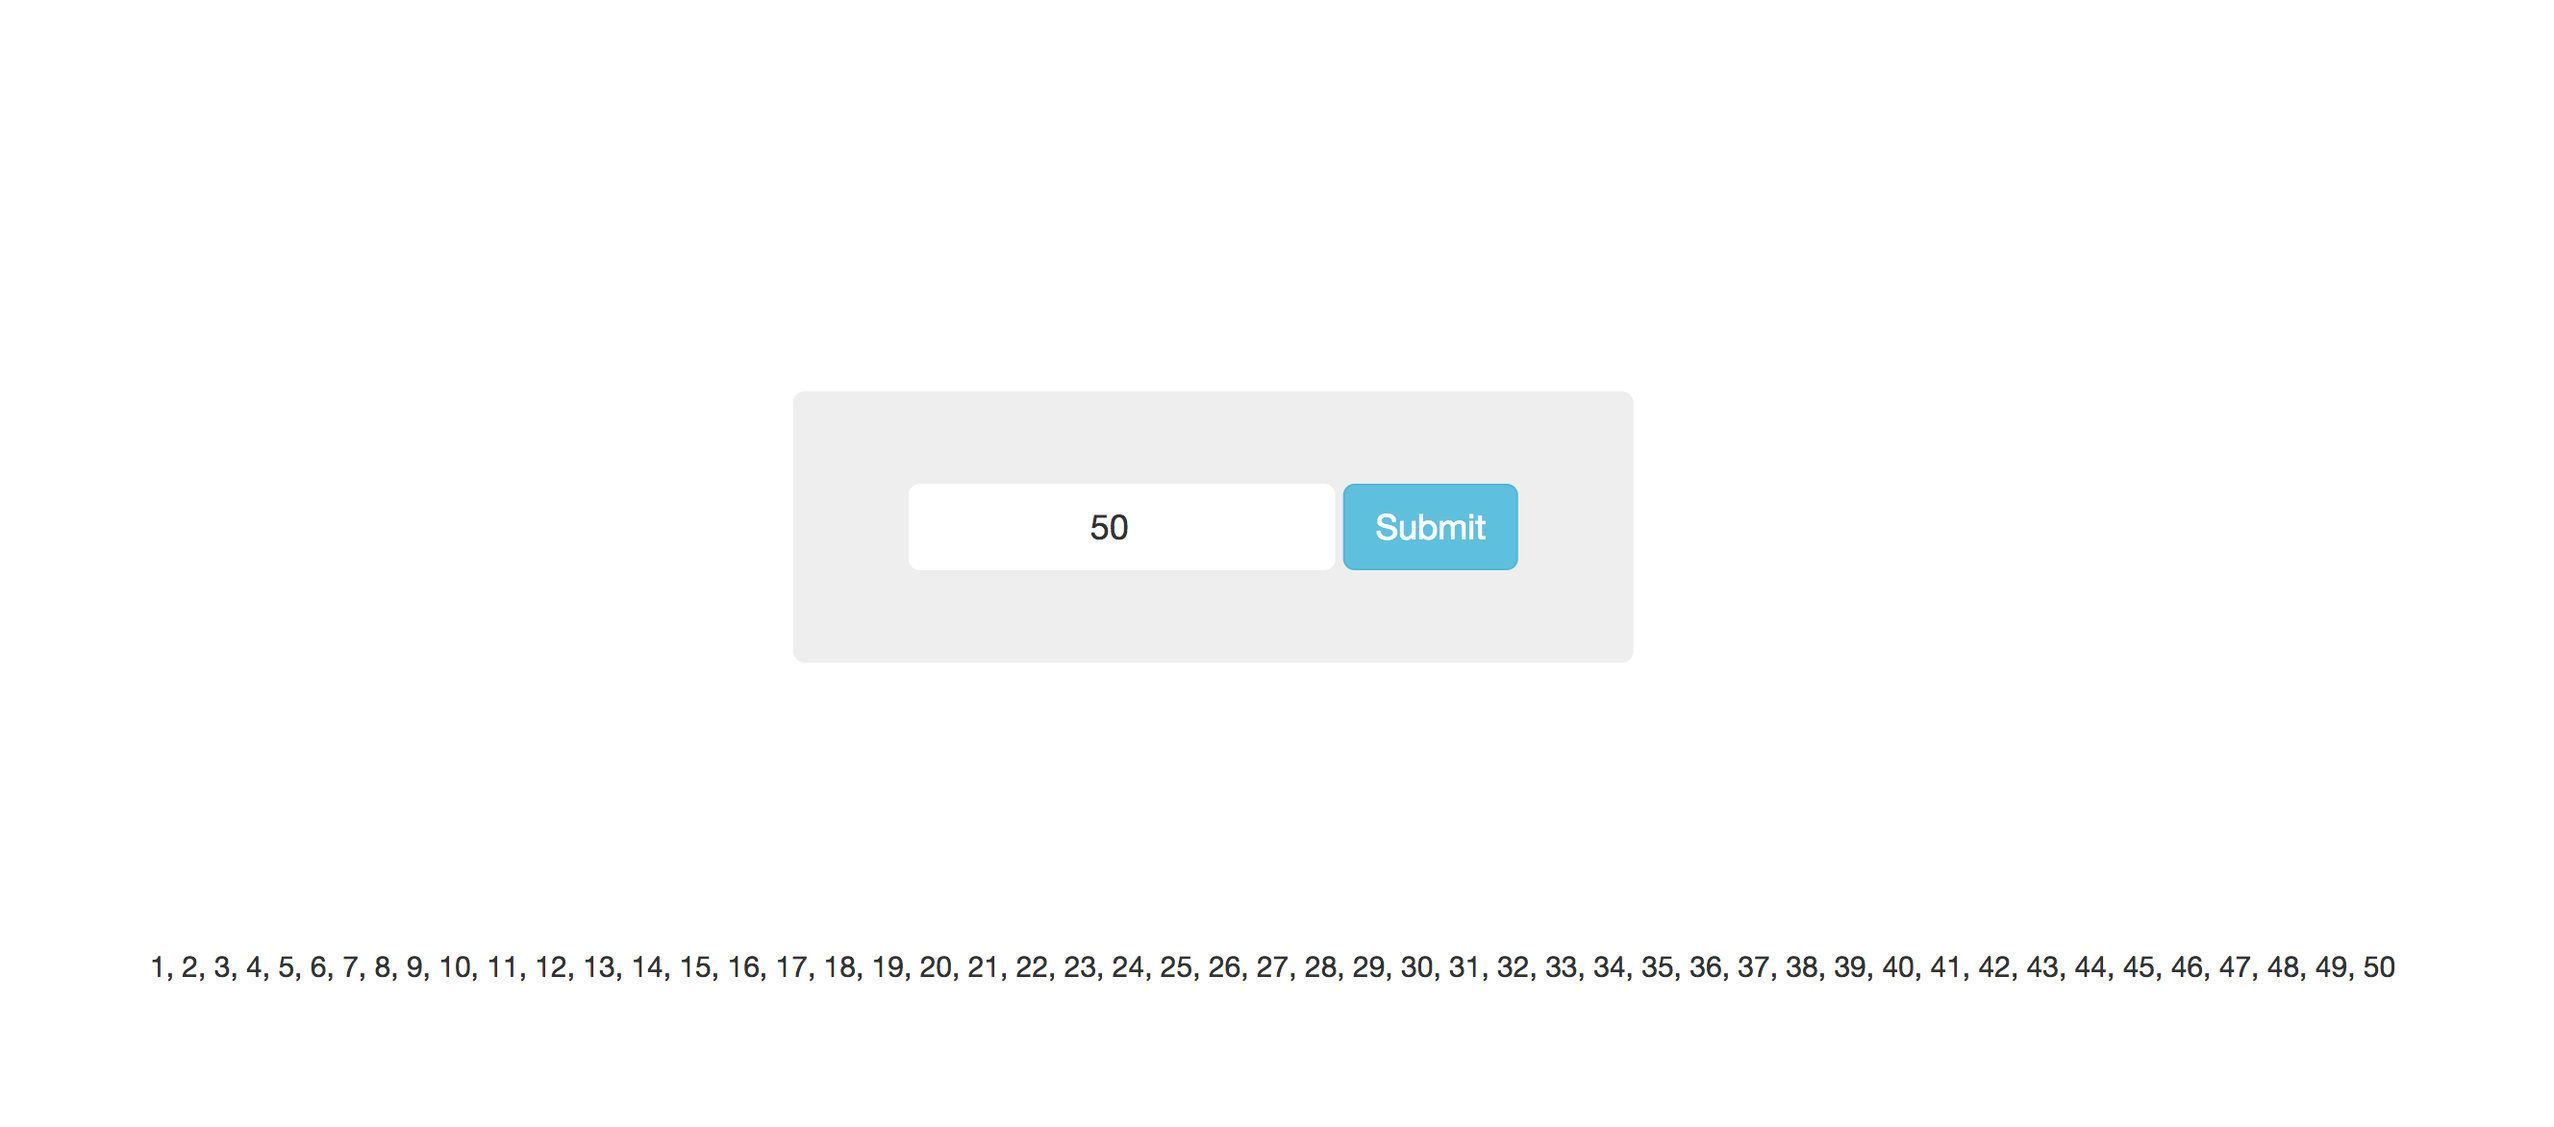
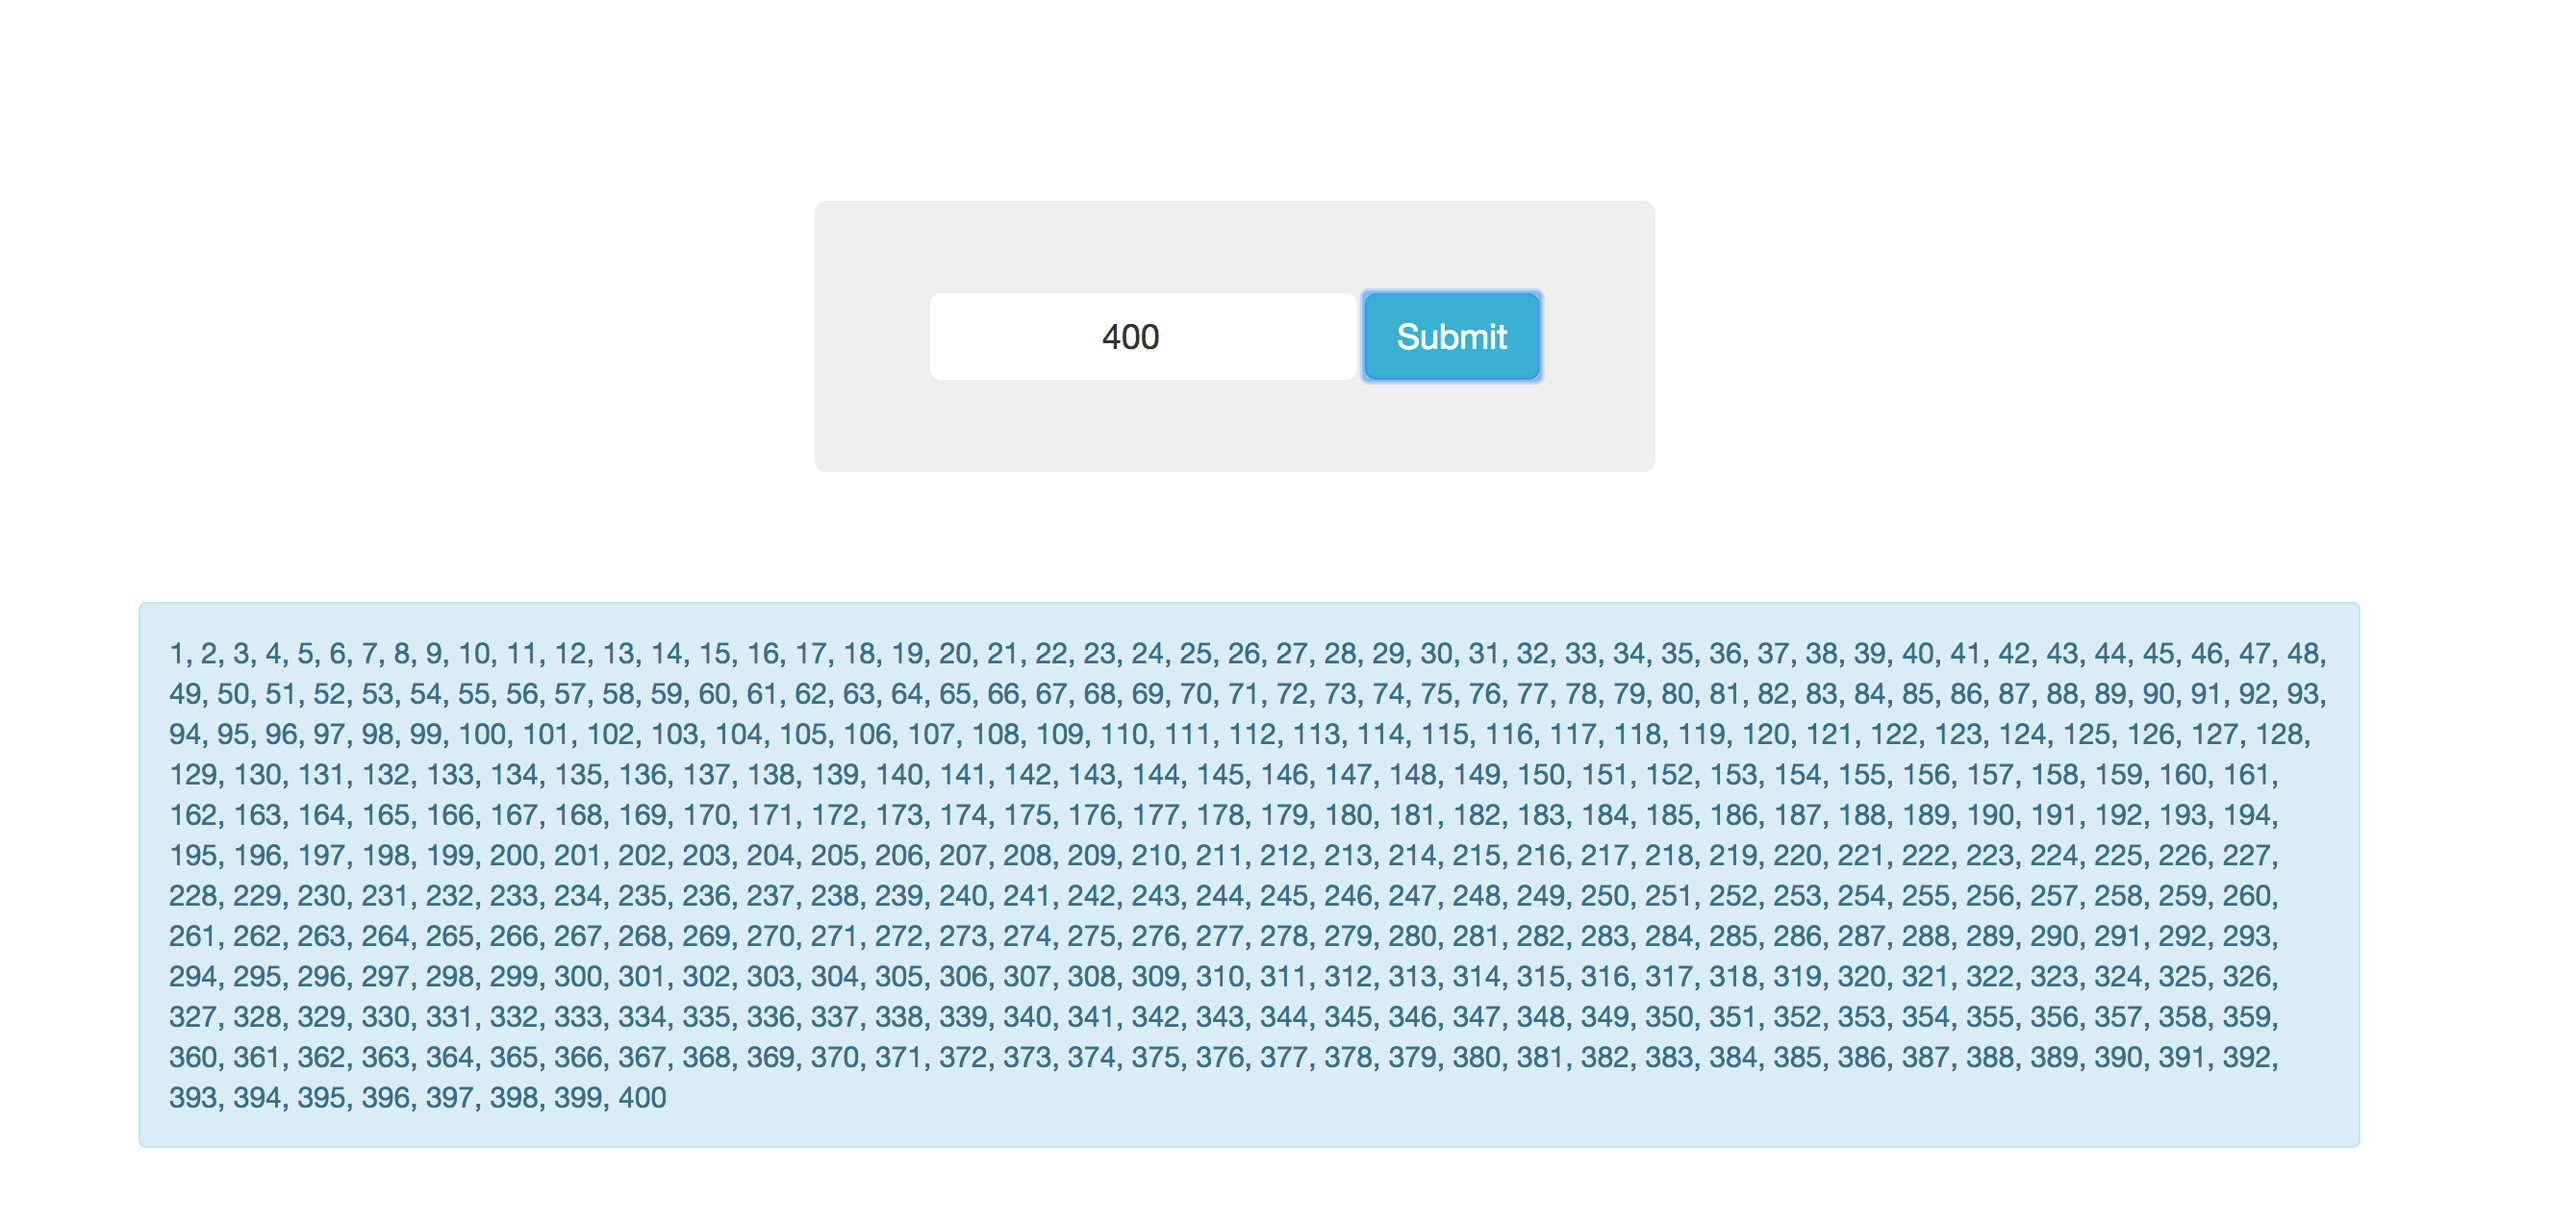
changes styles to display answer

diff --git a/index.html b/index.html
@@ -5,7 +5,9 @@
 
 <script>
   function setResponse(data) {
-      document.getElementById("response").innerHTML = data
+      response = document.getElementById("response")
+      response.innerHTML = data
+      response.classList.remove("-disabled");
   }
 
   function displayResponse() {
@@ -38,16 +40,20 @@
 
   .jumbotron {
     position: absolute;
-    top: 50%;
+    top: 30%;
     left:50%;
     transform: translate(-50%,-50%);
   }
 
   .response {
     position: absolute;
-    top: 80%;
+    top: 50%;
     font-size: 15px;
     overflow: scroll;
+  }
+
+  .-disabled {
+    display: none;
   }
 
 </style>
@@ -58,6 +64,6 @@
       <input class="btn btn-lg" name="number" id="number" type="number" placeholder="Enter a number" required>
       <button class="btn btn-info btn-lg" onclick="displayResponse()">Submit</button>
     </div>
-    <div id="response" class="btn btn-lg response"></div>
+    <div id="response" class="response alert alert-info -disabled"></div>
 	</div>
 </section>
